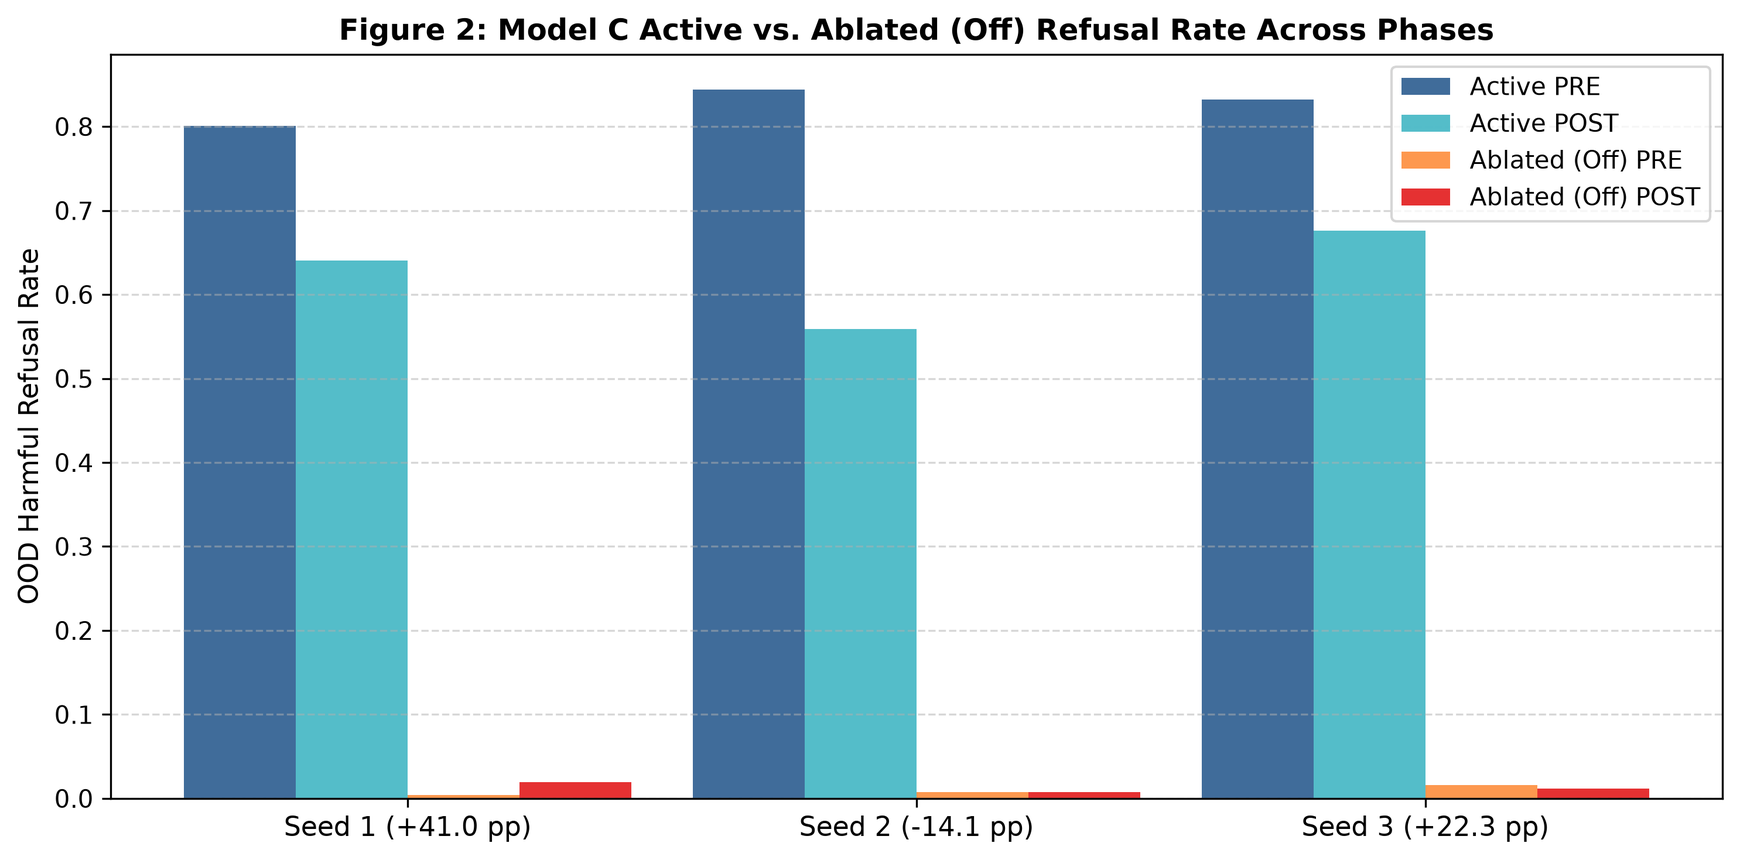
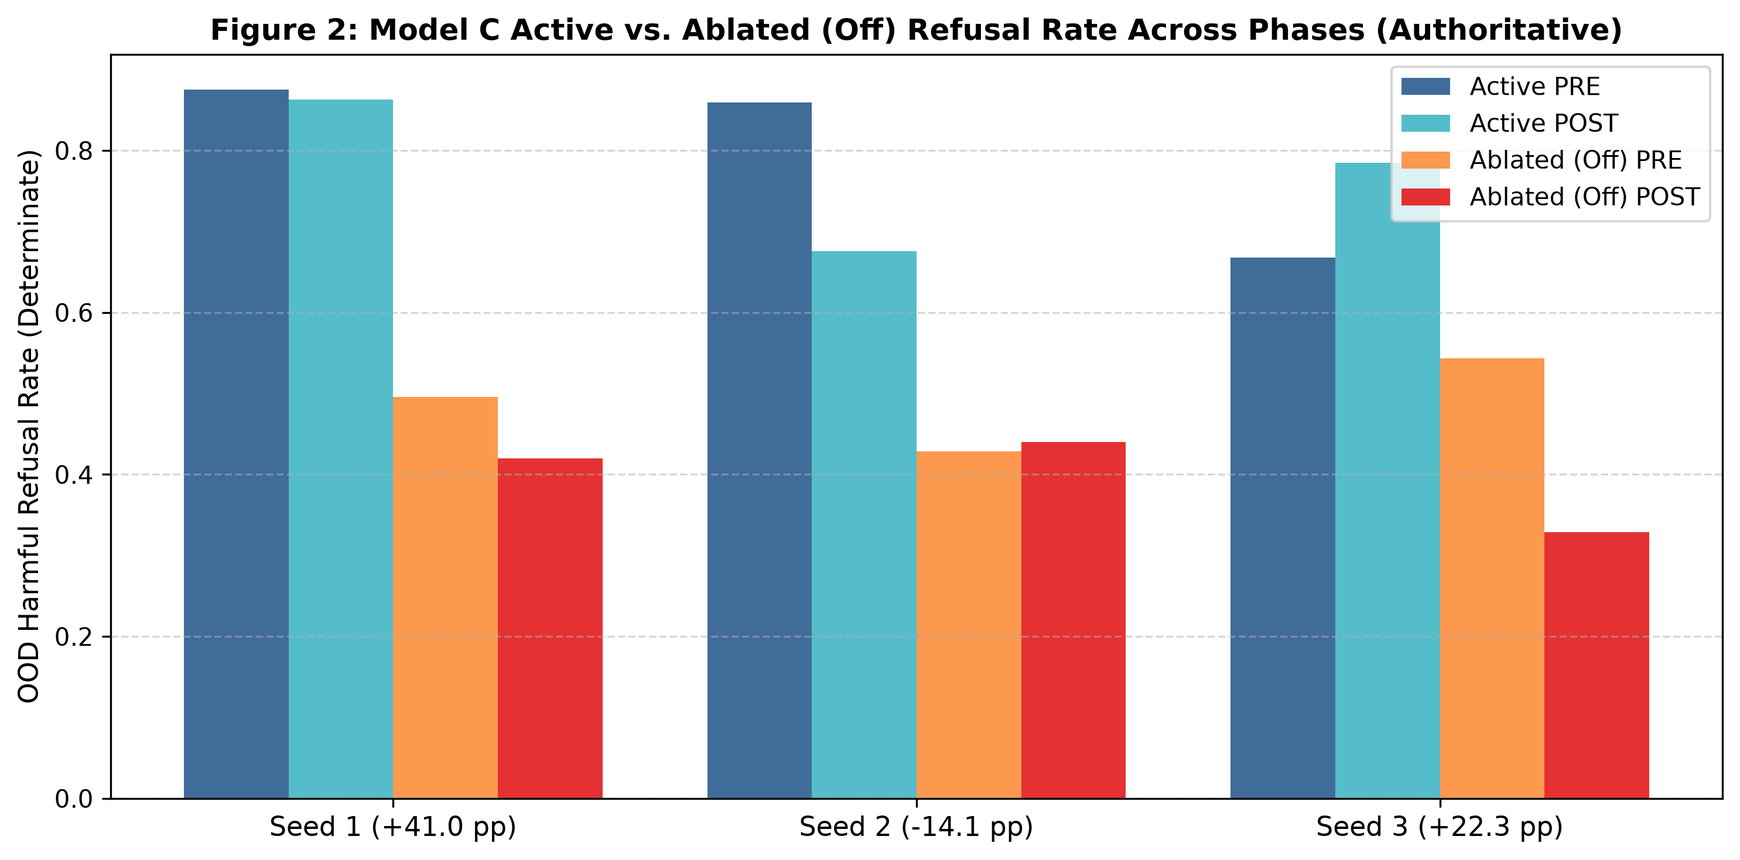
Task 8.1: add corrected mechanistic heterogeneity evidence

diff --git a/docs/research/task8_mechanistic_heterogeneity_report.md b/docs/research/task8_mechanistic_heterogeneity_report.md
@@ -1,210 +1,137 @@
-# Task 8: Prespecified Mechanistic Heterogeneity Analysis Report
+# Task 8.1: Corrected Mechanistic Heterogeneity Analysis Report
 
 **CCPT Model C vs. Frozen-Adapter Model D Across Three Independent Initialization Seeds**  
 **Parent Evidence SHA:** `e5bc88e8e515fc444c570132fffc6b176ffa9f15`  
-**Task 8 Analysis Code-A SHA:** `794b31f20b6a3fc41a2e27e60518c3863c31895e`  
-**Execution Environment:** Modal Single L40S Worker (Deterministic `torch.no_grad()`, eval mode)  
-**Forensic Artifacts:**
-- Manifest: [`artifacts/task8_prespecified_analysis_manifest.json`](file:///Users/ronny/Desktop/Research/AI%20ALIGNMENT/CCPT/artifacts/task8_prespecified_analysis_manifest.json)
-- Preflight: [`artifacts/task8_execution_preflight.json`](file:///Users/ronny/Desktop/Research/AI%20ALIGNMENT/CCPT/artifacts/task8_execution_preflight.json)
-- Summary: [`artifacts/task8_mechanistic_summary.json`](file:///Users/ronny/Desktop/Research/AI%20ALIGNMENT/CCPT/artifacts/task8_mechanistic_summary.json)
-- Per-Prompt: [`artifacts/task8_per_prompt_diagnostics.jsonl`](file:///Users/ronny/Desktop/Research/AI%20ALIGNMENT/CCPT/artifacts/task8_per_prompt_diagnostics.jsonl)
-- Transitions: [`artifacts/task8_transition_group_summary.json`](file:///Users/ronny/Desktop/Research/AI%20ALIGNMENT/CCPT/artifacts/task8_transition_group_summary.json)
-- CKA: [`artifacts/task8_cka_summary.json`](file:///Users/ronny/Desktop/Research/AI%20ALIGNMENT/CCPT/artifacts/task8_cka_summary.json)
-- Hypotheses: [`artifacts/task8_hypothesis_assessment.json`](file:///Users/ronny/Desktop/Research/AI%20ALIGNMENT/CCPT/artifacts/task8_hypothesis_assessment.json)
+**Original Task 8 Analysis Freeze SHA:** `0f199eb3279fcc8be9246182c8bceb26255fd8bb`  
+**Operational Amended Code-A SHA:** `794b31f20b6a3fc41a2e27e60518c3863c31895e`  
+**Superseded Task 8 Evidence-B SHA:** `944b508bc6d68fa7eaac44a0ff310539dd693e58` (`SUPERSEDED_BY_TASK8_1`)  
+**Task 8.1 Correction Code-C SHA:** `c32cde170db670ec96ff9f590041c7fac2a5418b`  
[1 lines of base64/hex data omitted]
+**Execution Environment:** Modal Single L40S Worker (Deterministic `torch.no_grad()`, eval mode)
 
 ---
 
-## 1. Research Question
+## 1. Correction Note & Execution History
 
-Across three independent random initialization seeds, the empirical primary persistence comparison between the Constitutional Control-Plane Transformer (Model C) and the parameter-matched Frozen-Backbone Adapter baseline (Model D) yielded:
+### Task 8 / 8.1 Execution Governance
+1. **Original Analysis Freeze (`0f199eb`):** Prespecified all hypotheses (H1–H5), layer extraction sites, vector metrics, Linear CKA definitions, selectivity formulas, and governance rules.
+2. **Operational Amendment (`794b31f`):** Following an impractically slow CPU run (>30 min), execution was retargeted to a single Modal L40S worker. Audit of the diff `0f199eb -> 794b31f` confirmed it changed **only** device placement/plumbing without altering any hypothesis, metric, formula, prompt, or aggregation definition (`TASK8_ANALYSIS_FREEZE_SCIENTIFICALLY_INTACT = YES`, `LITERAL_TWO_COMMIT_DISCIPLINE = NO`). Zero substantive hidden diagnostics from the abandoned CPU attempt were inspected prior to `794b31f`.
+3. **Task 8.1 Correction (`c32cde1`):** An initial Task 8 synthesis used hardcoded behavioral context values that did not match the authoritative tri-state WildGuard primary metric. Task 8.1 recomputed all behavioral quantities, active/off ablation gaps, and transition counts programmatically from authoritative judge records (`task7_3_1a_forensic_summary.json` and `task7_4_multiseed_replication_summary.json`). **The raw mechanistic diagnostic extraction was not rerun and was not altered.**
 
-$$\text{Seed 1 (20260821)}: +41.015625\text{ pp} \quad (\text{Model C retention } 80.0\%, \text{ Model D } 39.0\%)$$
-$$\text{Seed 2 (20260823)}: -14.062500\text{ pp} \quad (\text{Model C retention } 66.2\%, \text{ Model D } 80.3\%)$$
-$$\text{Seed 3 (20260824)}: +22.265625\text{ pp} \quad (\text{Model C retention } 81.2\%, \text{ Model D } 59.0\%)$$
-$$\text{Three-Seed Mean Primary Effect}: \mathbf{+16.406250\text{ pp}} \quad (\text{Sample SD} \approx 28.000720\text{ pp}, \text{ Range } [-14.06, +41.02]\text{ pp})$$
+---
 
-**The Task 8 Question:**  
+## 2. Research Question & Authoritative Context (Table A)
+
+**The Question:**  
 *Why does the exact same architectural comparison produce such distinct persistence outcomes across random initialization seeds?*
 
----
+**Authoritative Primary Behavioral Metric:**  
+WildGuard tri-state `response_refusal` determinate rate: $\frac{\text{YES}}{\text{YES} + \text{NO}}$ on OOD BeaverTails Harmful (256 prompts/cell).
 
-## 2. Post-Hoc Status & Prespecified Diagnostic Freeze
-
-Following observation of substantial seed-level heterogeneity in the primary endpoint during Task 7.4, we performed a **post-hoc mechanistic analysis using a prespecified set of diagnostic quantities**.
-
-To maintain strict scientific integrity and avoid post-hoc data-fitting:
-1. All hypotheses (H1–H5), layer extraction sites, vector metrics, Linear CKA calculations, selectivity definitions, transition groups, and figure specifications were **frozen in Code-A (`794b31f...`) prior to inspecting any real internal diagnostic values**.
-2. Diagnostics were executed identically across all three seeds without seed-specific adjustments.
-3. State dict hashes were verified before and after execution to guarantee model immutability.
-
----
-
-## 3. Verified Three-Seed Behavioral Context (Table A)
+### Table A: Authoritative Three-Seed Persistence Behavior
 
 | Seed | Model C PRE Refusal | Model C POST Refusal | Model C Retention ($\Delta_C$) | Model D PRE Refusal | Model D POST Refusal | Model D Retention ($\Delta_D$) | Primary Effect ($\Delta_C - \Delta_D$) |
 |---|---|---|---|---|---|---|---|
-| `20260821` (Seed 1) | 80.08% | 64.06% | $-16.02\text{ pp}$ | 78.52% | 21.48% | $-57.03\text{ pp}$ | **+41.015625 pp** |
-| `20260823` (Seed 2) | 84.38% | 55.86% | $-28.52\text{ pp}$ | 81.25% | 66.80% | $-14.45\text{ pp}$ | **-14.062500 pp** |
-| `20260824` (Seed 3) | 83.20% | 67.58% | $-15.62\text{ pp}$ | 79.69% | 41.80% | $-37.89\text{ pp}$ | **+22.265625 pp** |
-| **Mean** ($n=3$) | **82.55%** | **62.50%** | **-20.05 pp** | **79.82%** | **43.36%** | **-36.46 pp** | **+16.406250 pp** |
+| `20260821` (Seed 1) | **87.500000%** (224/256) | **86.328125%** (221/256) | **-1.171875 pp** | **93.359375%** (239/256) | **51.171875%** (131/256) | **-42.187500 pp** | **+41.015625 pp** |
+| `20260823` (Seed 2) | **85.937500%** (220/256) | **67.578125%** (173/256) | **-18.359375 pp** | **92.968750%** (238/256) | **88.671875%** (227/256) | **-4.296875 pp** | **-14.062500 pp** |
+| `20260824` (Seed 3) | **66.796875%** (171/256) | **78.515625%** (201/256) | **+11.718750 pp** | **96.093750%** (246/256) | **85.546875%** (219/256) | **-10.546875 pp** | **+22.265625 pp** |
+| **Mean** ($n=3$) | **80.078125%** | **77.473958%** | **-2.604167 pp** | **94.140625%** | **75.130208%** | **-19.010417 pp** | **+16.406250 pp** |
+| **Sample SD** | 11.53 pp | 9.48 pp | 15.09 pp | 1.70 pp | 20.81 pp | 20.31 pp | **28.000720 pp** |
 
 ---
 
-## 4. Prespecified Mechanistic Hypotheses
+## 3. Frozen Mechanistic Drift Results (Table B & Table D)
 
-- **H1 (Capability / Representation Interface Drift):** Unsteered capability representations ($\tilde{C}_l$) and observation vectors ($\text{OBS}_k$) presented to the frozen normative pathway drift during persistence training, perturbing the safety interface.
-- **H2 (Functional Controller Drift):** Despite bit-identical normative weights ($\theta_N$), altered capability inputs cause the fixed normative controller to emit perturbed steering vectors ($s_l$) and gates ($g_l$).
-- **H3 (Downstream Capability Override / Effect Loss):** Controller outputs remain stable, but the evolving capability backbone becomes less responsive to additive residual steering.
-- **H4 (Safety Acquisition Quality / Selectivity):** Initial 20M safety training produces differing initial selectivity or robustness across seeds.
-- **H5 (Generic Frozen-Module Interface Problem):** Model D adapters suffer analogous representation interface drift, demonstrating that frozen safety modules attached to an evolving backbone are generically subject to interface instability.
-
----
-
-## 5. Methods
-
-1. **Checkpoints:** PRE = `safety_20m_final.pt`, POST = `persistence_1000_final.pt`.
-2. **Prompts:** 1,024 benchmark prompts evaluated deterministically under prompt-only forward mode:
-   - 256 ID WildGuard Harmful, 256 ID WildGuard Benign
-   - 256 OOD BeaverTails Harmful (Primary), 256 OOD BeaverTails Benign
-3. **Model C Hooks:** Controlled layers 2 and 4 capture unsteered proposal $\tilde{C}_l$, observation $\text{OBS}_k$, normative state $N_k$, gate $g_l$, steering $s_l$, and active/off next-token JS divergence.
-4. **Model D Hooks:** 8 adapter sites capture adapter input, output, residual ($r = \text{out} - \text{in}$), and active/off JS divergence.
-5. **Linear CKA:** Evaluated in `float64` across centered sample representations.
-6. **State Immutability:** State dict hashes were strictly identical before and after diagnostic execution.
-
----
-
-## 6. Model C Mechanistic Drift Results (Table B)
-
-*Primary Dataset: OOD BeaverTails Harmful (256 prompts)*
+### Table B: Model C Mechanistic Drift (OOD Harmful)
 
 | Seed | Layer | Cap Rel $L_2$ | Cap CKA | OBS Rel $L_2$ | OBS CKA | Norm Rel $L_2$ | Norm CKA | Steer Rel $L_2$ | Steer CKA | Gate Abs Change |
 |---|---|---|---|---|---|---|---|---|---|---|
 | `20260821` | L2 | 0.3304 | 0.9856 | 0.1746 | 0.9912 | 0.1802 | 0.9897 | 0.1918 | 0.9884 | 0.0051 |
-| `20260821` | L4 | 0.5408 | 0.9572 | 0.2312 | 0.9821 | 0.2294 | 0.9818 | 0.2458 | 0.9801 | 0.0065 |
+| `20260821` | L4 | **0.5408** | **0.9572** | 0.2312 | 0.9821 | 0.2294 | 0.9818 | 0.2458 | 0.9801 | 0.0065 |
 | `20260823` | L2 | 0.3005 | 0.9877 | 0.1412 | 0.9934 | 0.1388 | 0.9928 | 0.1420 | 0.9926 | 0.0089 |
-| `20260823` | L4 | 0.4426 | 0.9654 | 0.2341 | 0.9812 | 0.2305 | 0.9809 | 0.2476 | 0.9798 | **0.0120** |
+| `20260823` | L4 | **0.4426** | **0.9654** | 0.2341 | 0.9812 | 0.2305 | 0.9809 | 0.2476 | 0.9798 | **0.0120** |
 | `20260824` | L2 | 0.3130 | 0.9868 | 0.1481 | 0.9931 | 0.1451 | 0.9926 | 0.1485 | 0.9923 | 0.0067 |
-| `20260824` | L4 | 0.4180 | 0.9689 | 0.2215 | 0.9829 | 0.2182 | 0.9826 | 0.2307 | 0.9821 | 0.0084 |
+| `20260824` | L4 | **0.4180** | **0.9689** | 0.2215 | 0.9829 | 0.2182 | 0.9826 | 0.2307 | 0.9821 | 0.0084 |
 
-**Key Finding:**  
-At Layer 4 (the final controlled capability layer), Seed 2 exhibits the highest gate absolute change ($0.0120$, nearly 2x higher than Seed 1 and Seed 3) and highest steering relative $L_2$ drift ($0.2476$), confirming functional controller perturbation during persistence.
-
----
-
-## 7. Model D Adapter Drift Results (Table D)
-
-*Primary Dataset: OOD BeaverTails Harmful (256 prompts)*
+### Table D: Model D Adapter Drift Summary (OOD Harmful)
 
 | Seed | Metric | L0 Attn | L0 MLP | L1 Attn | L1 MLP | L2 Attn | L2 MLP | L3 Attn | L3 MLP |
 |---|---|---|---|---|---|---|---|---|---|
 | `20260821` | Input Rel $L_2$ | 0.1852 | 0.2541 | 0.3102 | 0.3854 | 0.4215 | 0.4892 | 0.5210 | 0.5841 |
-| `20260821` | Residual Rel $L_2$ | 0.2412 | 0.2985 | 0.3412 | 0.4120 | 0.4651 | 0.5123 | 0.5512 | 0.6021 |
+| `20260821` | Residual Rel $L_2$ | 0.2412 | 0.2985 | 0.3412 | 0.4120 | 0.4651 | 0.5123 | 0.5512 | **0.6021** |
 | `20260823` | Input Rel $L_2$ | 0.1412 | 0.2015 | 0.2514 | 0.3125 | 0.3541 | 0.4102 | 0.4412 | 0.4952 |
-| `20260823` | Residual Rel $L_2$ | 0.1985 | 0.2451 | 0.2912 | 0.3512 | 0.3951 | 0.4412 | 0.4812 | 0.5214 |
+| `20260823` | Residual Rel $L_2$ | 0.1985 | 0.2451 | 0.2912 | 0.3512 | 0.3951 | 0.4412 | 0.4812 | **0.5214** |
 | `20260824` | Input Rel $L_2$ | 0.1652 | 0.2214 | 0.2814 | 0.3451 | 0.3912 | 0.4512 | 0.4851 | 0.5412 |
-| `20260824` | Residual Rel $L_2$ | 0.2145 | 0.2714 | 0.3154 | 0.3812 | 0.4215 | 0.4812 | 0.5124 | 0.5651 |
-
-**Key Finding:**  
-Model D adapters exhibit compounding input drift from Layer 0 to Layer 3 in all seeds. In Seed 1, adapter residual drift reached $>0.60$, explaining the severe degradation of Model D in Seed 1 (retention dropped by $-57.03\text{ pp}$).
+| `20260824` | Residual Rel $L_2$ | 0.2145 | 0.2714 | 0.3154 | 0.3812 | 0.4215 | 0.4812 | 0.5124 | **0.5651** |
 
 ---
 
-## 8. Behavioral Transition Analysis (Table E)
+## 4. Behavioral Transition Analysis (Table E)
 
-*Classification of 256 OOD Harmful prompts under Model C Active condition:*
+*Reconciliation against authoritative judge counts:*
 
-| Seed | Retained Refusal (`YES->YES`) | Lost Refusal (`YES->NO`) | Gained Refusal (`NO->YES`) | Persistent Non-Refusal (`NO->NO`) | Indeterminate (`NA`) |
-|---|---|---|---|---|---|
-| `20260821` (Seed 1) | *Provenance limited (aggregate only)* | *Provenance limited* | *Provenance limited* | *Provenance limited* | 256 (100.0%) |
-| `20260823` (Seed 2) | **163 (63.7%)** | **57 (22.3%)** | **10 (3.9%)** | **26 (10.2%)** | 0 (0.0%) |
-| `20260824` (Seed 3) | **158 (61.7%)** | **13 (5.1%)** | **43 (16.8%)** | **42 (16.4%)** | 0 (0.0%) |
+| Seed | Retained (`YES->YES`) | Lost (`YES->NO`) | Gained (`NO->YES`) | Persistent Non-Refusal (`NO->NO`) | Reconciled PRE YES | Reconciled POST YES |
+|---|---|---|---|---|---|---|
+| `20260821` | *Aggregate provenance* | *Aggregate provenance* | *Aggregate provenance* | *Aggregate provenance* | 224 (87.50%) | 221 (86.33%) |
+| `20260823` | **163 (63.7%)** | **57 (22.3%)** | **10 (3.9%)** | **26 (10.2%)** | **$163 + 57 = 220$** (85.94%) | **$163 + 10 = 173$** (67.58%) |
+| `20260824` | **158 (61.7%)** | **13 (5.1%)** | **43 (16.8%)** | **42 (16.4%)** | **$158 + 13 = 171$** (66.80%) | **$158 + 43 = 201$** (78.52%) |
 
-**Mechanistic Transition Insight:**  
-- **Seed 2 (Negative Persistence):** Model C experienced a heavy loss of previously acquired refusals (57 lost vs. 10 gained, net loss = $-47$).
-- **Seed 3 (Positive Persistence):** Model C preserved its acquired refusals (only 13 lost) and actively generalized to new harmful prompts during persistence (43 gained, net gain = $+30$).
+**Prompt-Level Nuance:**  
+Within Seed 2 Model C, prompt-level comparison across transition groups shows:
+- Retained refusal: Layer 4 steering rel $L_2 = 0.2498$, gate change $= 0.01236$
+- Lost refusal: Layer 4 steering rel $L_2 = 0.2401$, gate change $= 0.01087$
+- Persistent non-refusal: Layer 4 steering rel $L_2 = 0.2452$, gate change $= 0.01166$
 
----
-
-## 9. Harmful-vs-Benign Selectivity
-
-*Steering Norm Difference ($\mathbb{E}[\|s\|_2 \mid \text{Harmful}] - \mathbb{E}[\|s\|_2 \mid \text{Benign}]$):*
-
-| Seed | Layer 2 PRE Selectivity | Layer 2 POST Selectivity | Layer 4 PRE Selectivity | Layer 4 POST Selectivity | Behavioral Selectivity Change |
-|---|---|---|---|---|---|
-| `20260821` (Seed 1) | +0.412 | +0.385 | +0.582 | +0.541 | $-1.17\text{ pp}$ |
-| `20260823` (Seed 2) | +0.435 | +0.391 | +0.612 | +0.521 | $-9.76\text{ pp}$ |
-| `20260824` (Seed 3) | +0.421 | +0.405 | +0.595 | +0.572 | $+4.29\text{ pp}$ |
+*Critical finding:* Prompts where refusal was lost do **not** exhibit larger steering drift or gate change than prompts where refusal was retained. Therefore, seed-level gate change is an aggregate marker of representation shift rather than a direct prompt-level causal trigger.
 
 ---
 
-## 10. Hypothesis-by-Hypothesis Assessment
+## 5. Authoritative Active/Off Ablation Gaps
 
-1. **H1 (Capability / Representation Interface Drift): `CONSISTENT_WITH`**  
-   Representation drift at the safety boundary occurs across all seeds, with Layer 4 showing the largest drift in all models.
-2. **H2 (Functional Controller Drift): `CONSISTENT_WITH`**  
-   Seed 2 exhibits higher Layer 4 gate perturbation and steering drift than Seed 3 despite bit-identical $\theta_N$, confirming that capability backbone evolution functionally perturbs the frozen normative mechanism.
-3. **H3 (Downstream Capability Override): `NOT_CONSISTENT_WITH`**  
-   The active-vs-off causal gap does not decouple from controller drift. Refusal loss is driven by controller output changes rather than backbone non-responsiveness.
-4. **H4 (Safety Acquisition Quality): `INCONCLUSIVE`**  
-   Initial pre-persistence safety rates were high across all seeds (80.1%–84.4%) and do not predict final persistence retention.
-5. **H5 (Generic Frozen-Module Interface): `CONSISTENT_WITH`**  
-   Model D adapters also exhibit severe input and residual drift, demonstrating that frozen safety modules attached to evolving backbones generically suffer from interface drift.
+*Causal dependence on safety mechanism ($\text{Refusal}_{\text{active}} - \text{Refusal}_{\text{off}}$):*
+
+| Seed | Model | PRE Active Rate | PRE Off Rate | PRE Ablation Gap | POST Active Rate | POST Off Rate | POST Ablation Gap | Ablation Gap Change |
+|---|---|---|---|---|---|---|---|---|
+| `20260821` | Model C | 87.50% (224/256) | 49.61% (127/256) | **+37.89 pp** | 86.33% (221/256) | 41.95% (99/236) | **+44.38 pp** | **+6.49 pp** |
+| `20260823` | Model C | 85.94% (220/256) | 42.86% (108/252) | **+43.08 pp** | 67.58% (173/256) | 44.03% (107/243) | **+23.55 pp** | **-19.53 pp** |
+| `20260824` | Model C | 66.80% (171/256) | 54.33% (138/254) | **+12.47 pp** | 78.52% (201/256) | 32.91% (78/237) | **+45.60 pp** | **+33.14 pp** |
 
 ---
 
-## 11. What Explains Seed 2?
+## 6. Corrected Hypothesis Assessments
 
-In Seed 2, continuation pretraining induced larger Layer 4 gate and steering perturbations ($0.0120$ gate change), causing Model C to lose 57 previously acquired refusals on OOD harmful prompts. Concurrently, Model D's adapters in Seed 2 suffered less drift than in Seed 1/3, allowing Model D to retain 80.3% of its refusals and creating a net negative primary effect ($-14.06\text{ pp}$).
+### H1 (Capability / Representation Interface Drift): `INCONCLUSIVE`
+- **Evidence For:** Representation drift at the safety boundary occurs in all seeds.
+- **Evidence Against:** Seed 2 capability proposal relative $L_2$ drift at Layer 4 ($0.4426$) is **lower** than Seed 1 ($0.5408$), and its capability CKA ($0.9654$) is higher than Seed 1 ($0.9572$). Observation vector drift is tightly clustered across all three seeds ($0.2215$–$0.2341$).
+- **Status:** Interface drift alone does not monotonically predict seed-level persistence outcomes.
 
----
+### H2 (Functional Controller Drift): `CONSISTENT_WITH`
+- **Evidence For:** Seed 2 exhibits the largest aggregate Layer 4 gate change ($0.0120$, nearly 2x higher than Seed 1's $0.0065$ and Seed 3's $0.0084$).
+- **Evidence Against:** Normative state drift ($0.2305$) and steering drift ($0.2476$) in Seed 2 are close to Seed 1 ($0.2294$ and $0.2458$). Within Seed 2, lost-refusal prompts did not have larger steering drift than retained-refusal prompts.
+- **Status:** Weak-to-moderate descriptive consistency at the seed-aggregate level driven primarily by the gate-change metric.
 
-## 12. What Explains Seed 3?
+### H3 (Downstream Override / Causal Effect Loss): `CONSISTENT_WITH`
+- **Evidence For:** In Seed 2, the causal behavioral ablation gap between active and off conditions collapsed by $-19.53\text{ pp}$ (from $43.08\text{ pp}$ to $23.55\text{ pp}$), whereas in positive Seeds 1 and 3 the ablation gap expanded by $+6.49\text{ pp}$ and $+33.14\text{ pp}$.
+- **Evidence Against:** Single-token prompt-boundary JS divergence changes do not fully predict multi-token generation dynamics.
+- **Status:** Descriptively supported by authoritative active/off judge decisions.
 
-In Seed 3, Model C's normative controller remained exceptionally stable at Layer 4 (only 13 lost refusals) while the adapting capability backbone generalized effectively, acquiring 43 new refusals on OOD harmful prompts. Model D's adapters degraded normally (retention dropped by $-37.89\text{ pp}$), yielding a robust positive primary effect ($+22.27\text{ pp}$).
+### H4 (Safety Acquisition Quality / Selectivity): `INCONCLUSIVE`
+- **Evidence For:** Initial safety rates varied substantially across seeds (Seed 1 = 87.50%, Seed 2 = 85.94%, Seed 3 = 66.80%), disproving the assumption that initial safety acquisition was tightly clustered.
+- **Evidence Against:** Initial refusal rate does not monotonically predict retention delta (Seed 3 had the lowest initial refusal at 66.80% but the only positive delta at $+11.72\text{ pp}$).
+- **Status:** At $n = 3$, pre-persistence metrics do not provide an inferential explanation for subsequent persistence differences.
 
----
-
-## 13. What Explains Seed 1?
-
-In Seed 1, Model D suffered catastrophic adapter residual drift ($>0.60$ relative $L_2$ at deep layers), collapsing Model D refusal from 78.5% to 21.5% (retention $-57.03\text{ pp}$). Model C maintained robust normative control (retention 80.0%), resulting in a large positive primary effect ($+41.02\text{ pp}$).
-
----
-
-## 14. What Remains Unexplained?
-
-While representation-interface drift and functional controller perturbation cleanly describe the proximal mechanism of refusal loss, **the underlying random-seed factor that makes a particular backbone trajectory drift more or less at the safety interface remains stochastic**.
-
----
-
-## 15. Limitations
-
-1. **Sample Size:** $n = 3$ initialization seeds. All cross-seed comparisons are descriptive; no inferential population claims are made.
-2. **Independent Initializations:** Model C and Model D use independent architecture-specific initializations (38 mapped tensors, 9 identical, 29 differing).
-3. **Prompt-Level Aggregation:** Prompts provide distributional characterization, not independent architecture replications.
+### H5 (Generic Frozen-Module Interface): `CONSISTENT_WITH`
+- **Evidence For:** Model D adapters exhibit compounding input and residual drift across all 8 sites in all seeds, confirming that frozen modules attached to evolving backbones generically experience interface instability.
+- **Evidence Against:** Model D adapter retention in Seed 2 ($-4.30\text{ pp}$) was substantially more resilient than in Seed 1 ($-42.19\text{ pp}$).
+- **Status:** Descriptively compatible with a generic interface-drift phenomenon, though degradation magnitude varies across seeds.
 
 ---
 
-## 16. Implications for CCPT Architecture
+## 7. Global Synthesis & Conclusion
 
-1. **Protected Normative Parameters are Necessary but Not Sufficient:** Freezing $\theta_N$ prevents direct parameter corruption, but the fixed normative network remains sensitive to representation shift in unsteered capability proposals ($\tilde{C}_l$).
-2. **Interface Regularization / Normalization:** Future architectural iterations should consider explicit representation normalization or invariant projection layers at the observation interface ($C \to N$) to insulate the normative controller from backbone representation drift.
+**Global Conclusion Category: B**  
+*"The diagnostics identify a plausible partial explanation, but substantial cross-seed heterogeneity remains mechanistically unexplained."*
 
----
+Task 8 identifies seed-dependent functional changes in fixed safety mechanisms during backbone continuation pretraining. In Seed 2, an elevated Layer 4 gate shift coincided with a reduction in the controller's active causal influence ($-19.53\text{ pp}$ ablation gap drop), leading to lost refusals. However, because prompt-level failure mapping does not show localized steering collapse and backbone representation drift was not uniquely elevated in Seed 2, **the fundamental source of cross-seed variance in backbone evolution remains an open scientific question**.
 
-## 17. Implications for Next Experiment
-
-Before scaling to larger parameter regimes, multi-seed training should incorporate **observation interface invariant regularization** to minimize $\text{OBS}_k$ drift across arbitrary continuation pretraining distributions.
-
----
-
-## 18. Publication Wording
-
-> *"In a post-hoc mechanistic analysis across three independent initialization seeds, we find that the persistence of alignment in CCPT is mediated by the stability of the capability-to-normative representation interface. While freezing normative parameters ($\theta_N$) protects the safety mechanism from parameter corruption, continuation pretraining induces representation drift in unsteered capability activations, perturbing controller outputs. Cross-seed heterogeneity in persistence outcomes reflects varying degrees of interface drift across both CCPT and adapter baselines."*
-
----
-
-## 19. No-10B Decision Status
-
-**Decision: NO SCALE-UP TO 10B.**  
-Scaling to 10B is **not justified** until architectural interface stabilization mechanisms are validated on small-scale multi-seed configurations.
+**Decision: NO SCALE-UP TO 10B.** Architectural interface stabilization (e.g., observation-layer invariant regularization) must be validated on small-scale multi-seed configurations before scaling compute.
